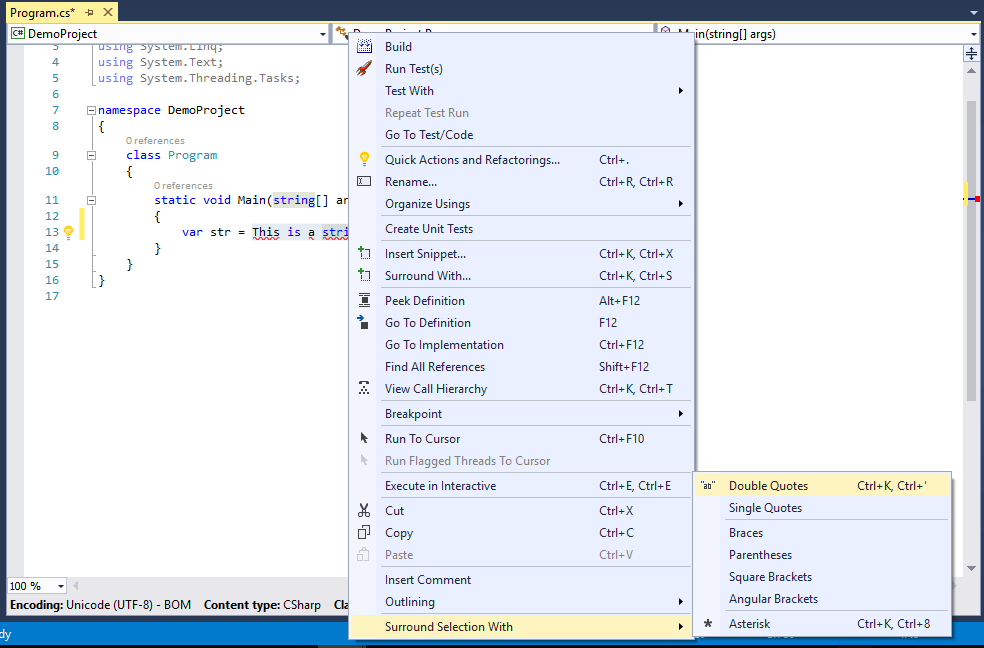
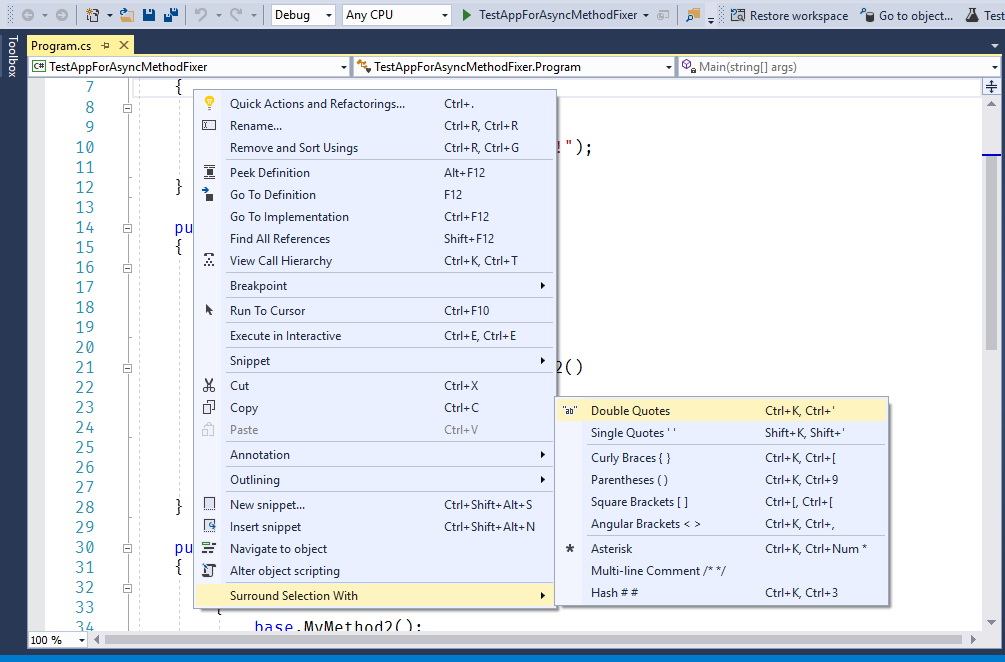
Update screenshot in readme

diff --git a/README.md b/README.md
@@ -28,9 +28,7 @@ Select any text in Visual Studio and right click.
 
 ![Select And Right Click](Screenshots/select-and-right-click.png)
 
-Then select *Surround Selection With* and then select the option you want eg. *Double Quotes* to get the text wrapped around that:
-
-![Double Quotes Result](Screenshots/double-quotes-result.png)
+Then select *Surround Selection With* and then select the option you want eg. *Double Quotes* to get the text wrapped around that.
 
 ## Hotkeys
 
